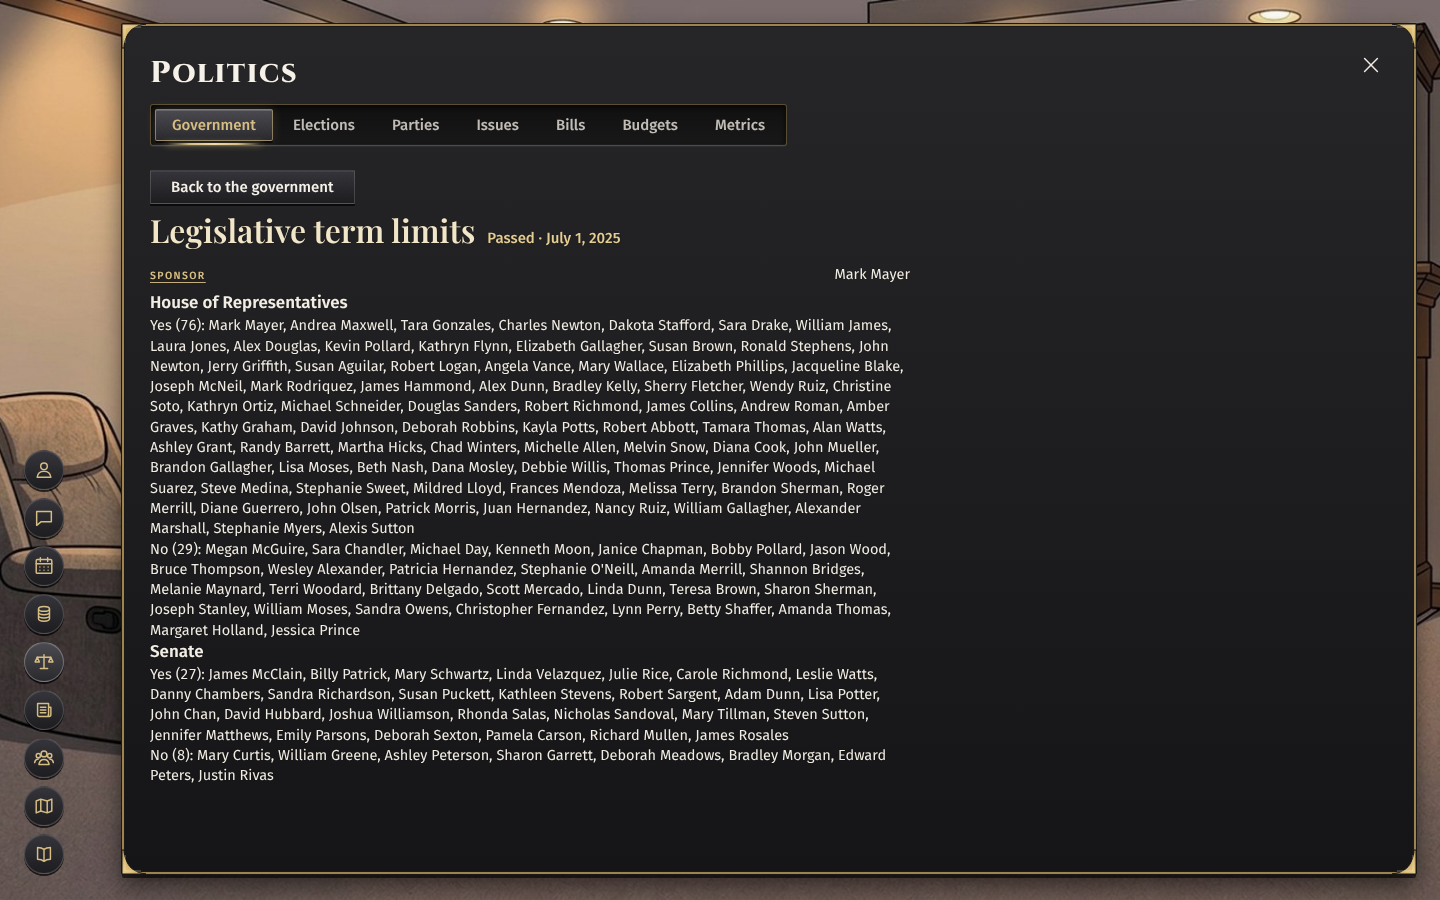
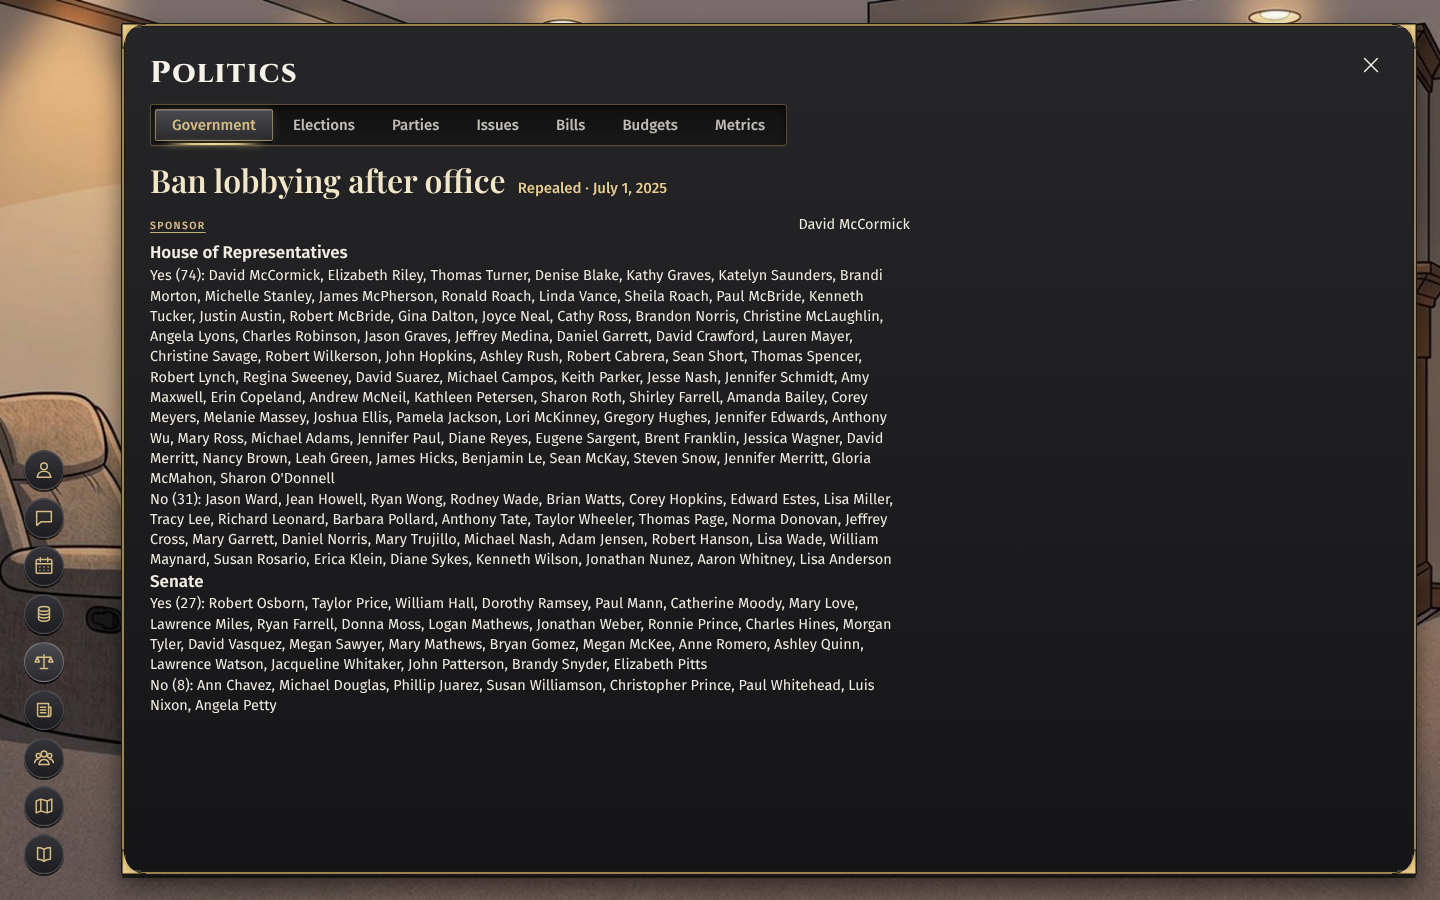
play: the roll call closes by the tabs, no Back (owner, Oct 29)
Claude-Session: https://claude.ai/code/session_01S4WSHqTsNdXpsaf8KiiQ9a

Changed region(s): [[0.0938, 0.1867, 0.625, 0.8711]]

diff --git a/docs/play-first/shots/play-states-screen-opens-any-state/README.md b/docs/play-first/shots/play-states-screen-opens-any-state/README.md
@@ -1,8 +1,8 @@
 # play-states-screen-opens-any-state: screenshots
 
-At 1440 by 900, by `src/bench/states.browser.mjs` on the bench at this branch's head, after 240 days run with dev mode. Murphy, Idaho (drawn), seed `ae5db6fe-4bf3-484a-86f6-51996cf22eca`.
+At 1440 by 900, by `src/bench/states.browser.mjs` on the bench at this branch's head, after 240 days run with dev mode. Red Hook, U.S. Virgin Islands (drawn), seed `f97bba4b-8b6b-48c9-bff0-2ecf81f7e9aa`.
 
-- `drawn/roll-call.png`: Alabama's "Legislative term limits", passed July 1, 2025: the sponsor, and each chamber's yes and no by name (House 76 to 29, Senate 27 to 8), matching the counts on its row.
+- `drawn/roll-call.png`: Alabama: the change and its sponsor, and each chamber's yes and no by name, matching the counts on its row; no Back control (it closes by the tabs).
 - `drawn/state-recent-votes.png`: Politics, Government, State, Alabama: the chamber's recent votes, each with its count.
 
 The look is the approved Government screen's (docs/mocks/2026-11-07-approved/, `#gov-state`); the roll call is a strip page like a bill's paper.
